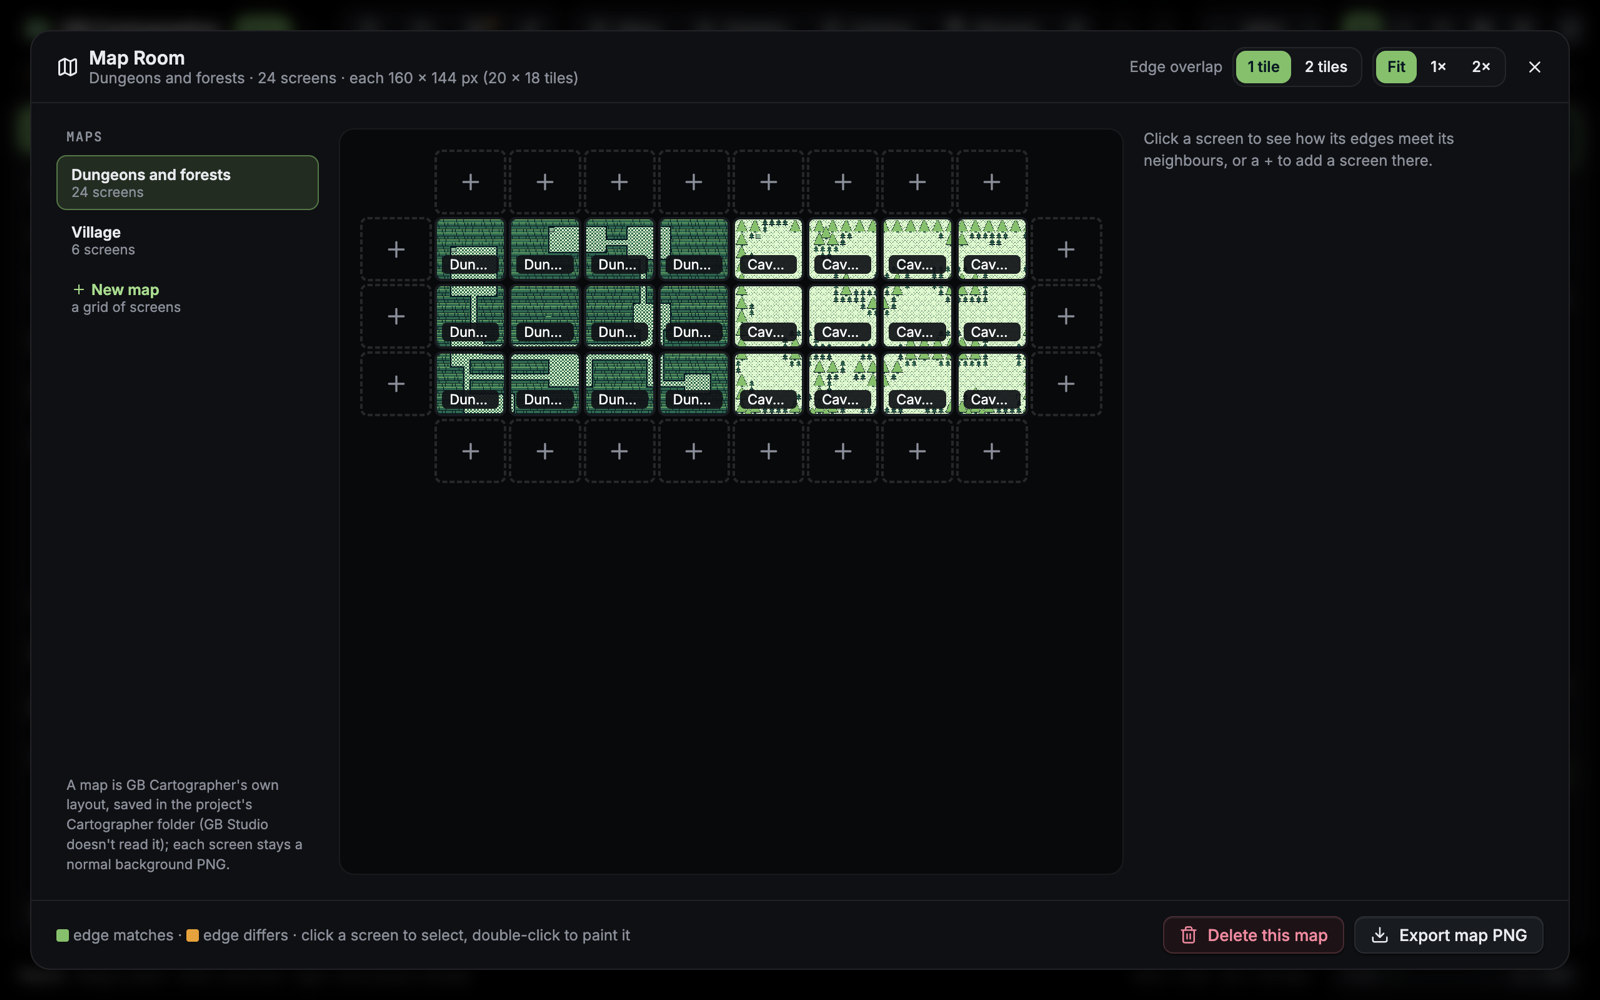
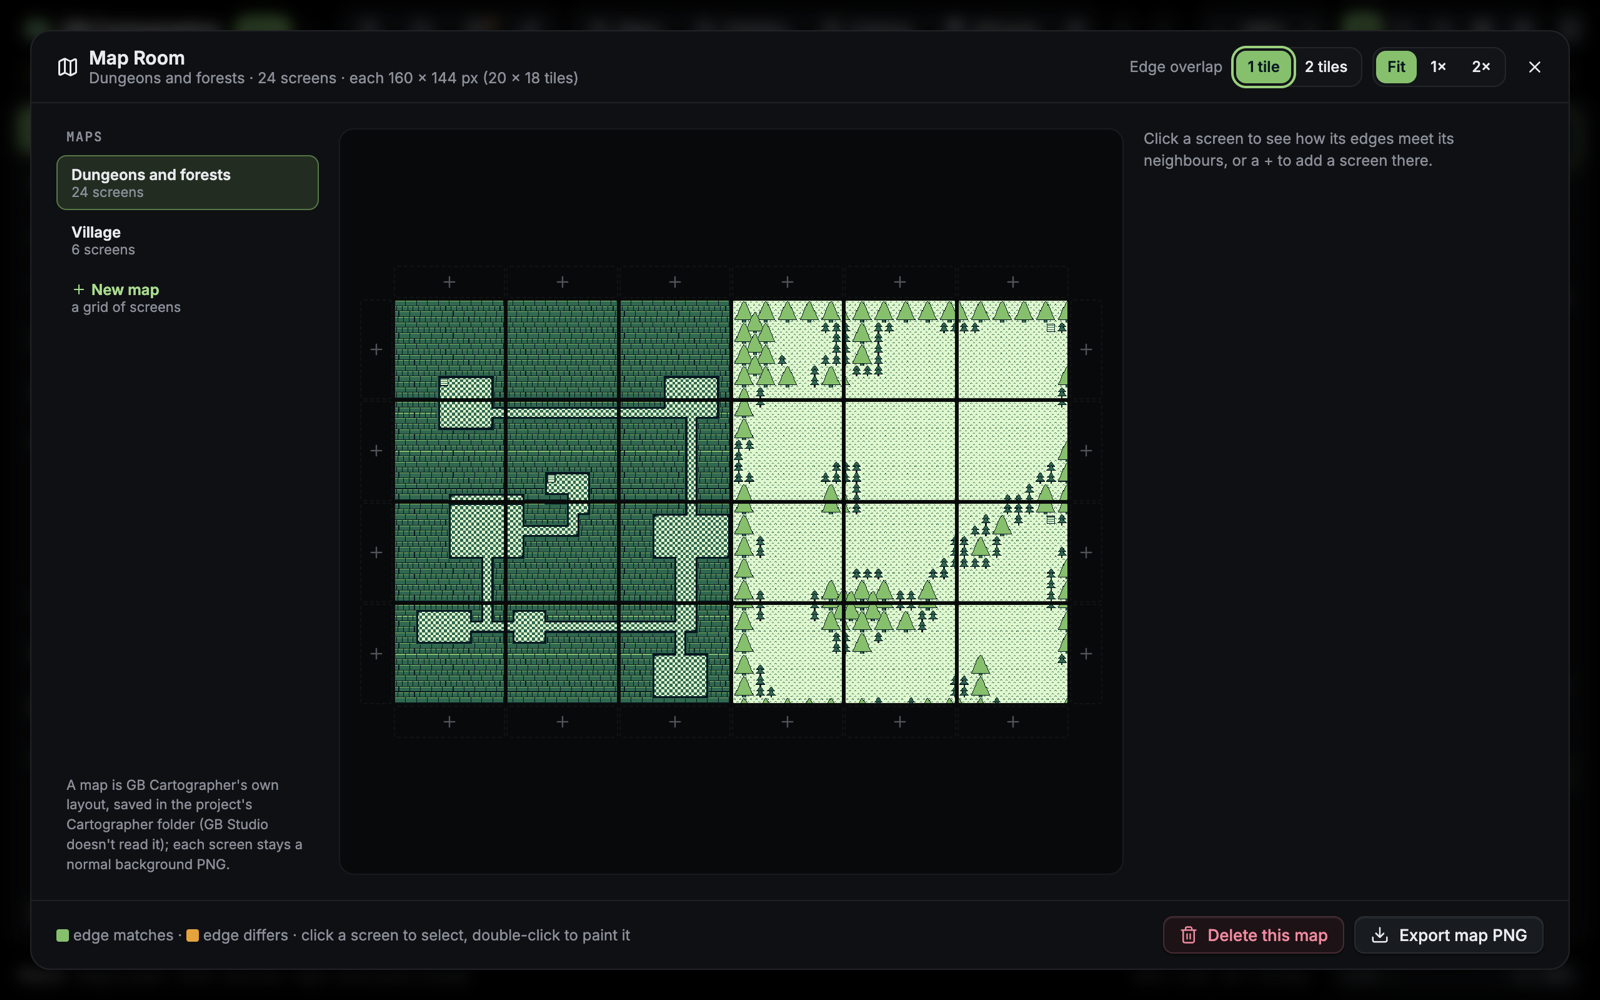
Map Room: screens fill the window (the + slots round the edge are a slim gutter), 1 px apart, names only on hover and small; README: a faster cave GIF and the 24-screen map

Changed region(s): [[0.2188, 0.217, 0.6875, 0.713], [0.7812, 0.031, 0.8125, 0.093]]

diff --git a/src/app/MapRoom.tsx b/src/app/MapRoom.tsx
@@ -61,6 +61,9 @@ function tilesOf(picture: Picture) {
   return countUniqueTiles(shades, picture.width, picture.height, false);
 }
 
+/** The width of the + gutter around a map, in screen pixels. */
+const GUTTER = 26;
+
 export function MapRoom({ project, onClose, onOpen, onProjectChanged, onExport, say }: { project: Project; onClose: () => void; onOpen: (asset: Asset) => void; onProjectChanged: () => Promise<void>; onExport: (blob: Blob, name: string) => Promise<boolean>; say: (text: string) => void }) {
   const [confirmDialog, confirmBox] = useConfirm();
   const [maps, setMaps] = useState<MapLayout[] | null>(null);
@@ -200,9 +203,10 @@ export function MapRoom({ project, onClose, onOpen, onProjectChanged, onExport, 
   const cells = map?.cells ?? [];
   const xs = cells.map((cell) => cell.x), ys = cells.map((cell) => cell.y);
   const [minX, maxX, minY, maxY] = cells.length ? [Math.min(...xs) - 1, Math.max(...xs) + 1, Math.min(...ys) - 1, Math.max(...ys) + 1] : [0, 0, 0, 0];
-  // Fit: the largest scale (up to 2×) at which every column and row, with their 2 px gaps, fits the grid area.
+  // The ring of + slots around the map is a slim gutter (the author, 2026-10-14: zoom in to the maps), so Fit is the
+  // largest scale (up to 2×) at which the screens, the gutters and the 1 px gaps fit the grid area.
   const columnCount = maxX - minX + 1, rowCount = maxY - minY + 1;
-  const fitScale = areaSize.width ? Math.max(0.25, Math.min(2, (areaSize.width - 2 * (columnCount - 1)) / (columnCount * W), (areaSize.height - 2 * (rowCount - 1)) / (rowCount * H))) : 1;
+  const fitScale = !cells.length ? 1 : areaSize.width ? Math.max(0.25, Math.min(2, (areaSize.width - 2 * GUTTER - (columnCount - 1)) / ((columnCount - 2) * W), (areaSize.height - 2 * GUTTER - (rowCount - 1)) / ((rowCount - 2) * H))) : 1;
   const scale = zoom === "fit" ? fitScale : Number(zoom);
   const nearCell = (x: number, y: number) => !cells.length ? x === 0 && y === 0 : SIDES.some((side) => cellAt(x + OFFSET[side][0], y + OFFSET[side][1]));
   const selectedCell = selected ? cellAt(selected.x, selected.y) : undefined;
@@ -273,7 +277,7 @@ export function MapRoom({ project, onClose, onOpen, onProjectChanged, onExport, 
           {!map ? (
             <div className="mr-empty"><span className="mr-mascot"><LogoMark size={48} /></span><span className="k-muted">Make a map to start: New map on the left.</span></div>
           ) : (
-            <div className="mr-cells" style={{ gridTemplateColumns: `repeat(${maxX - minX + 1}, ${W * scale}px)`, gridAutoRows: `${H * scale}px` }}>
+            <div className="mr-cells" style={!cells.length ? { gridTemplateColumns: `${W * scale}px`, gridAutoRows: `${H * scale}px` } : { gridTemplateColumns: `${GUTTER}px repeat(${columnCount - 2}, ${W * scale}px) ${GUTTER}px`, gridTemplateRows: `${GUTTER}px repeat(${rowCount - 2}, ${H * scale}px) ${GUTTER}px` }}>
               {Array.from({ length: (maxY - minY + 1) * (maxX - minX + 1) }, (_, at) => {
                 const x = minX + (at % (maxX - minX + 1)), y = minY + Math.floor(at / (maxX - minX + 1));
                 const cell = cellAt(x, y);
@@ -282,13 +286,13 @@ export function MapRoom({ project, onClose, onOpen, onProjectChanged, onExport, 
                   return (
                     <button key={`${x},${y}`} type="button" className="mr-cell" aria-pressed={isSelected} onClick={() => { setSelected({ x, y }); setAdding(null); }} onDoubleClick={() => openCell(cell)}>
                       {pictureOf(cell.file) ? <img src={pictureOf(cell.file)!.preview.src} alt="" /> : assetOf(cell.file) ? <span className="k-muted k-small">…</span> : <span className="k-small mr-missing" title={`assets/backgrounds/${cell.file} isn't in the project any more (renamed or deleted outside GB Cartographer)`}>Missing<br />{cell.file}</span>}
-                      <span className="mr-label">{assetOf(cell.file)?.name ?? cell.file} · {x}, {y}</span>
+                      <span className="mr-label">{assetOf(cell.file)?.name ?? cell.file}</span>
                       {isSelected && edges.map(({ side, result }) => <i key={side} className={`mr-edge ${side} ${result && result.match === result.total ? "match" : "differ"}`} />)}
                     </button>
                   );
                 }
                 return nearCell(x, y)
-                  ? <button key={`${x},${y}`} type="button" className="mr-add" aria-pressed={adding?.x === x && adding?.y === y} title={`Add a screen at ${x}, ${y}`} onClick={() => { setAdding({ x, y }); setSelected(null); }}><Plus size={20} /></button>
+                  ? <button key={`${x},${y}`} type="button" className={`mr-add${x === minX || x === maxX || y === minY || y === maxY ? " mr-add--edge" : ""}`} aria-pressed={adding?.x === x && adding?.y === y} title={`Add a screen at ${x}, ${y}`} onClick={() => { setAdding({ x, y }); setSelected(null); }}><Plus size={x === minX || x === maxX || y === minY || y === maxY ? 14 : 20} /></button>
                   : <span key={`${x},${y}`} />;
               })}
             </div>

diff --git a/src/app/MapRoom.css b/src/app/MapRoom.css
@@ -49,3 +49,15 @@
 
 /* A screen whose picture is gone (renamed or deleted outside GB Cartographer): said, not hidden. */
 .mr-missing { color: var(--k-warn); text-align: center; overflow-wrap: anywhere; padding: 0 6px; }
+
+/* The map, looked at (the author, 2026-10-14: "zoom in to maps, make maps look better; no text labels unless hover,
+   then it's small"): screens sit 1 px apart on the well, centred; + slots round the edge are a slim dashed gutter. */
+.mr-grid { display: grid; place-items: center; }
+.mr-cells { gap: 1px; }
+.mr-cell { border-width: 1px; border-radius: 2px; background: #0b0d0c; }
+.mr-cell:hover { border-color: rgba(255, 255, 255, .55); }
+.mr-label { left: 3px; bottom: 3px; padding: 0 4px; font: 500 9.5px/1.5 'JetBrains Mono', ui-monospace, monospace; background: rgba(10, 12, 11, .82); opacity: 0; transition: opacity .12s; pointer-events: none; }
+.mr-cell:hover .mr-label, .mr-cell:focus-visible .mr-label { opacity: 1; }
+.mr-add { border-width: 1px; border-radius: 3px; }
+.mr-add--edge { border-color: var(--k-edge); opacity: .55; }
+.mr-add--edge:hover, .mr-add--edge[aria-pressed="true"] { opacity: 1; }

diff --git a/README.md b/README.md
@@ -102,7 +102,7 @@ pick. Make background puts the map and its palettes in your project.
 
 ![The Wizards gallery: a card and a picture for each wizard](docs/media/wizards.png)
 
-![The Map Room with 24 screens, twelve of dungeon and twelve of forest, laid out side by side](docs/media/map-room.png)
+![The Map Room with 24 screens, a dungeon and a forest of twelve each, side by side](docs/media/map-room.png)
 
 ![The Asset Catalog: palettes and art to take into a project, each credited](docs/media/graphics.png)
 
